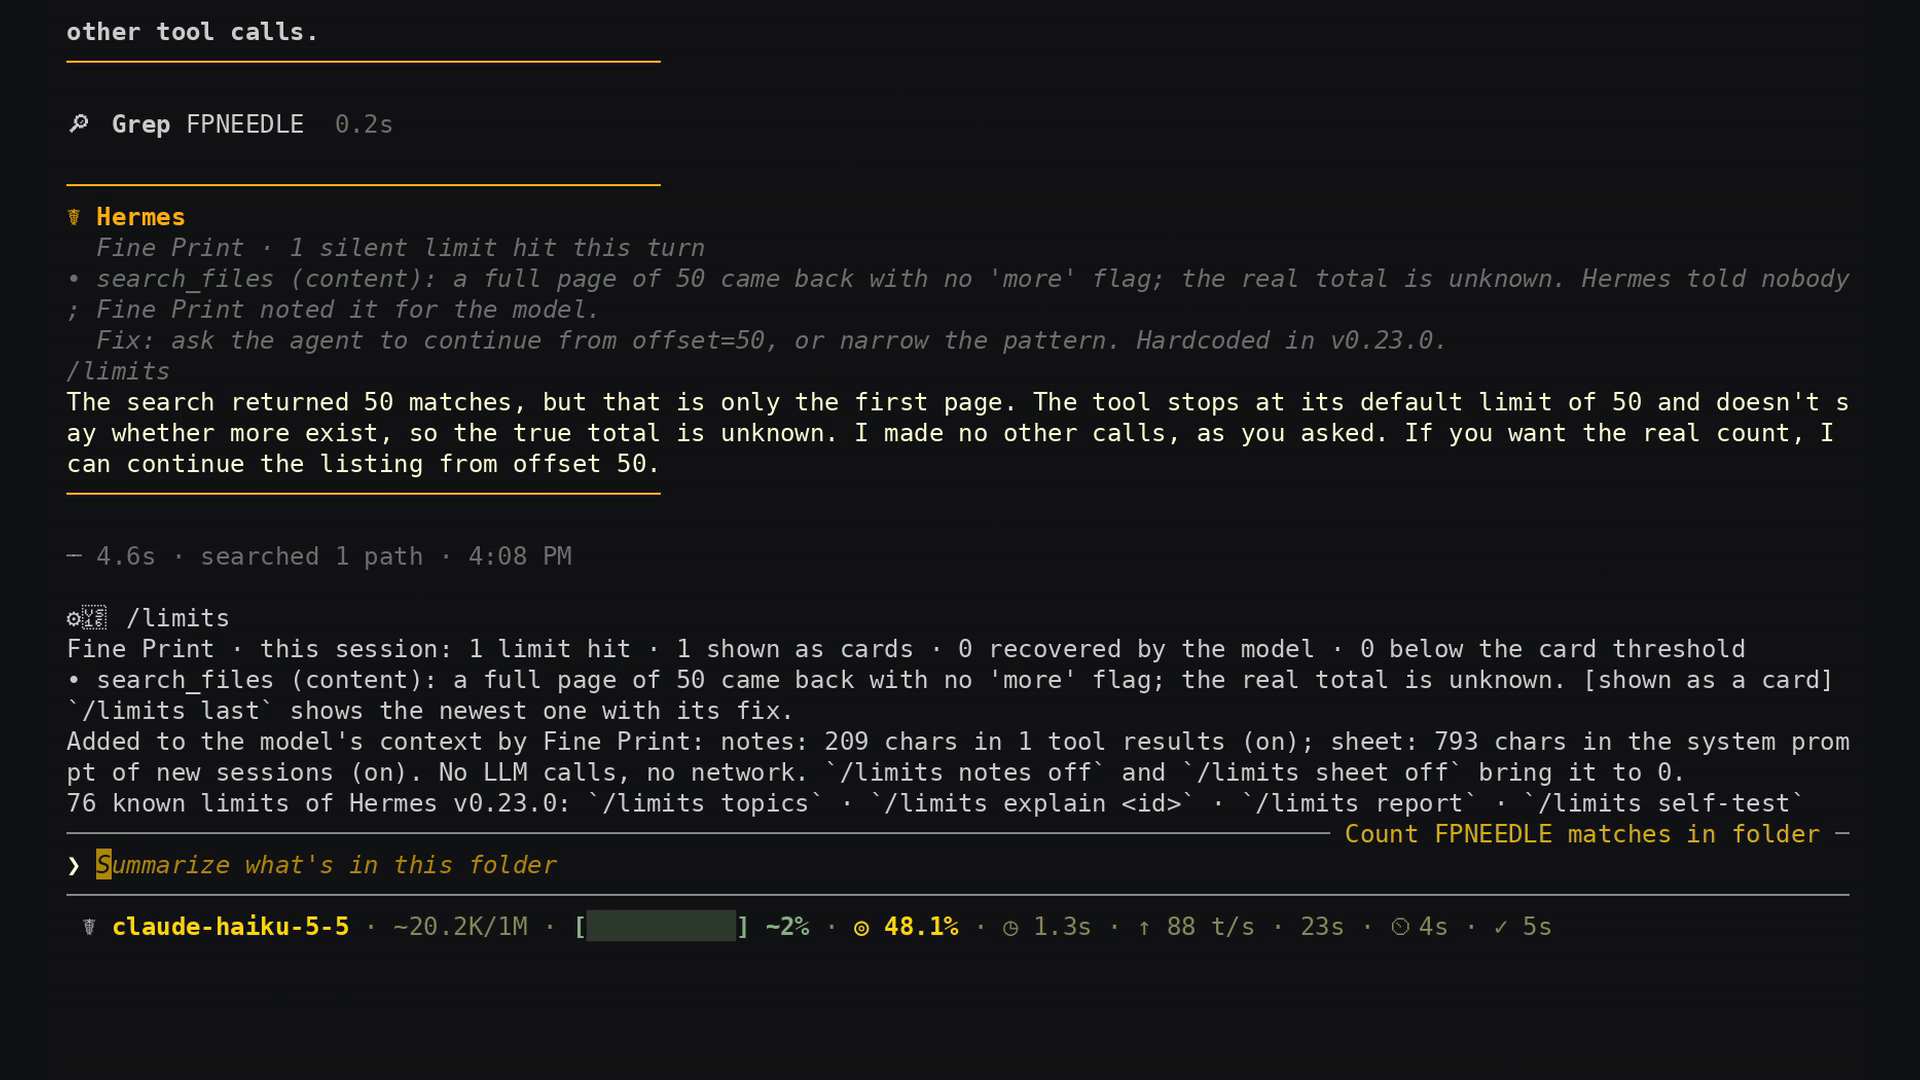
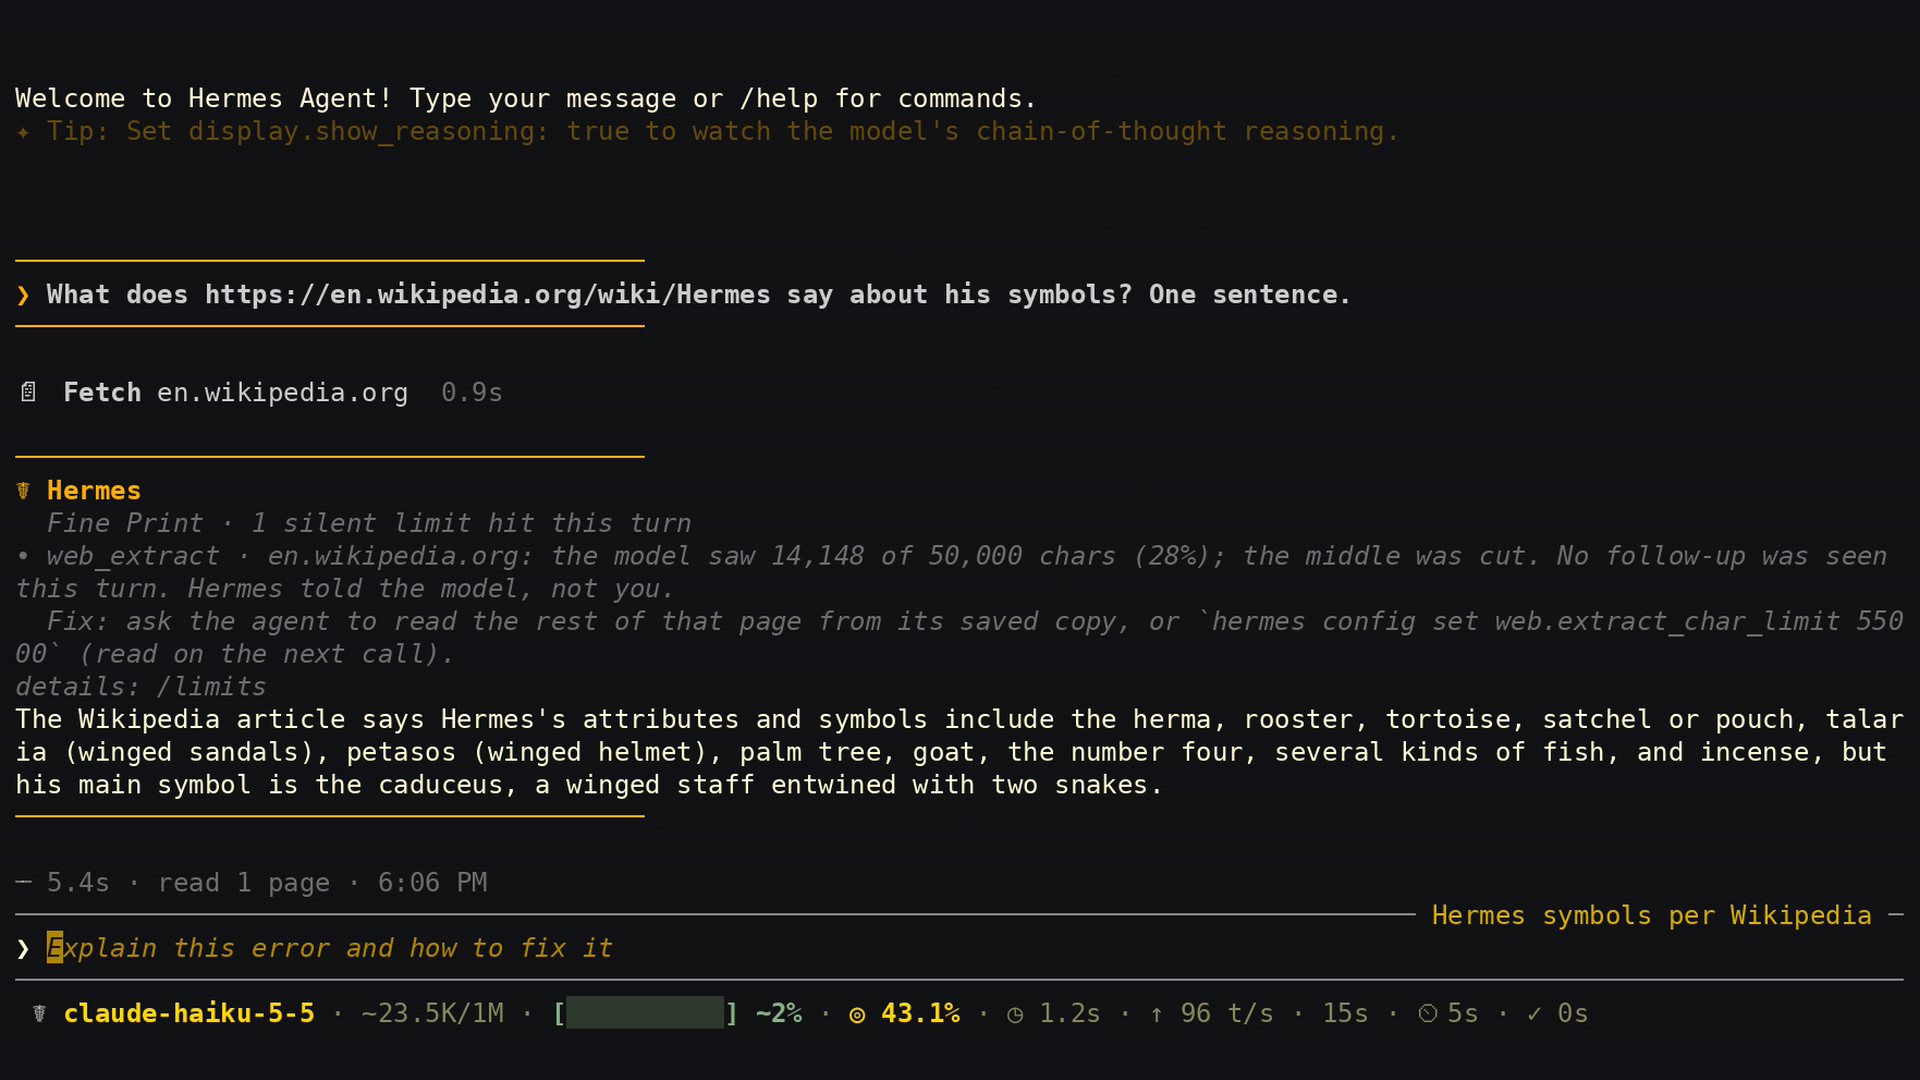
README: numbers re-measured after the audit fixes; current card screenshot

diff --git a/README.md b/README.md
@@ -12,25 +12,26 @@ makes them visible the moment they shape an answer.
 
 ## What the author's own history says
 
-The detectors were replayed over the author's own Hermes history: 103,081 tool results in 1,101
+The detectors were replayed over the author's own Hermes history: 103,603 tool results in 1,109
 sessions over two months (`dev/replay.py`, read-only, aggregates only; measured 2026-11-11).
 
 | What happened | How often | What the model did next |
 |---|---|---|
 | `web_extract` cut a page to head + tail | 642 pages; the model saw a median **39%** of a page, 62% of pages under half | a follow-up read of the rest was seen for 19% within the turn |
-| An image was downscaled before the model saw it | 1,009 images; median **4x** fewer pixels, up to 28x | a region zoom on the same image followed for 5% |
-| `search_files` returned a full page with no "more" flag | 626 times | the same search was continued in under 1% |
+| An image was downscaled before the model saw it | 1,013 images; median **4x** fewer pixels, up to 28x | a region zoom on the same image followed for 5% |
+| `search_files` returned a full page with no "more" flag | 633 times | the same search was continued in under 1% |
 | `web_search` was answered by the keyless free tier, not the configured backend | 210 times, 23 of them empty | nothing to do: the result says "success" |
-| `read_file` cut lines at the line-length cap | 185 reads; in 54 of them every line returned was cut (one-line JSON, minified files) | a follow-up with terminal or execute_code was seen for 26% of those 54 |
-| `terminal` output was captured as head + tail | 106 times; 36 kept under half of the output | a read of the saved log followed for 13% |
-| A tool result was replaced by a 1,500-char preview and a saved file | 41 times | a read of the saved file followed for 95% |
+| `read_file` cut lines at the line-length cap | 185 reads; in 54 of them every line returned was cut (one-line JSON, minified files) | a follow-up with terminal or execute_code was seen for 24% of those 54 |
+| `terminal` output was captured as head + tail | 106 times; 36 kept under half of the output | a read of the saved log followed for 10% |
+| A tool result was replaced by a 1,500-char preview and a saved file | 41 times | a read of the saved file followed for 93% |
 
 Hermes told the user about none of these. For most of them it does tell the model, and outside the last
 row a follow-up is seen about one time in four or less. So the product is built around three things: a
 card for the user when no follow-up was seen, a note for the model only where core tells nobody, and a
 report over your own history. "Follow-up" is evidence, not proof: a later successful call of a tool that
-can fetch the missing part, aimed at the same target. With these rules, 375 of the 3,483 turns that had
-tool calls (11%) would have ended with a card.
+can fetch the missing part, aimed at the same file or URL. Under the card policy, about 428 of the 3,492
+turns that had tool calls (12%) would have ended with a card; that is an estimate, replayed with the same
+detectors and the same policy.
 
 ## What you get
 
